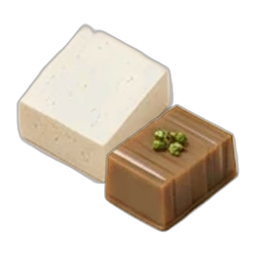
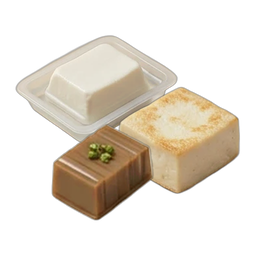
부침두부·찌개두부·순두부·떡 그림과 실온 간편식·떡·두부 대표 그림 교체
- 진한 배경으로 받은 흰 음식 그림이라 그림자 없이 깔끔하게 잘림
- 부침두부·찌개두부가 두부와 같은 그림이던 것을 따로
- 실온 간편식: 즉석밥 + 곰탕 + 3분 카레 (글씨 있는 포장은 빼고 음식만)

Claude-Session: https://claude.ai/code/session_01MYGhb6R2QXY6quyyhQiczg

diff --git a/public/sw.js b/public/sw.js
@@ -3,7 +3,7 @@
 // - 그림·스크립트 등: 저장해 둔 것 먼저 (빌드 파일 이름이 바뀌므로 오래된 것이 남지 않음)
 // - /api/ (AI 연결 서버)는 저장하지 않는다
 
-const CACHE = 'fridge-planner-v8'; // 2026-11-10: 실온 간편식 대표 그림을 바꿈 (같은 파일 이름이라 예전 그림이 남지 않게)
+const CACHE = 'fridge-planner-v9'; // 2026-11-10: 두부·떡·실온 간편식 그림을 바꿈 (같은 파일 이름이라 예전 그림이 남지 않게)
 
 self.addEventListener('install', () => self.skipWaiting());
 self.addEventListener('activate', (e) => {
